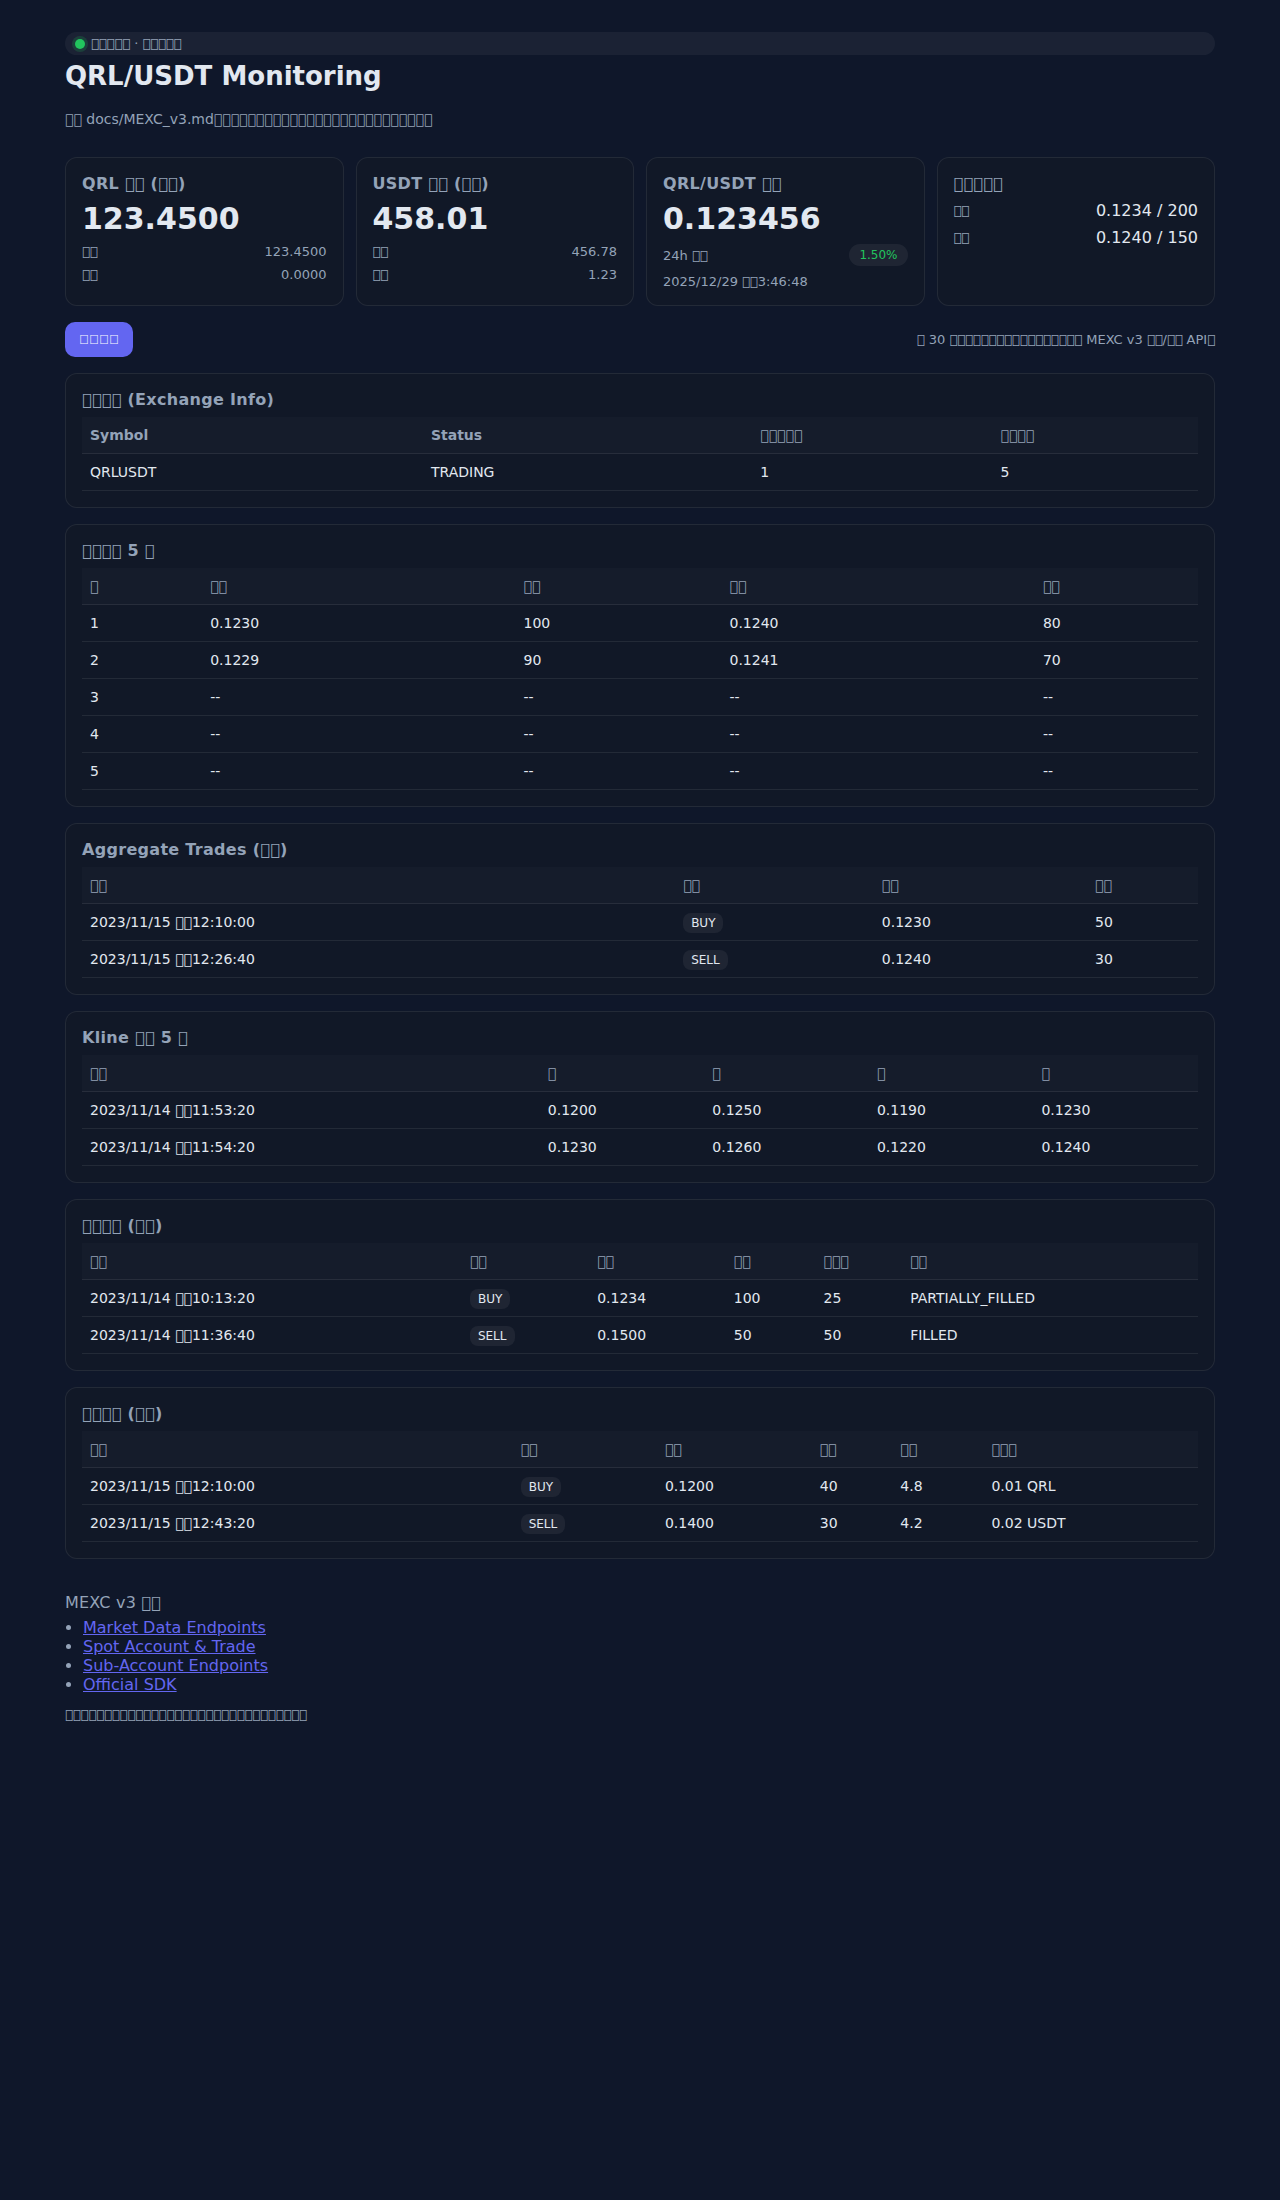
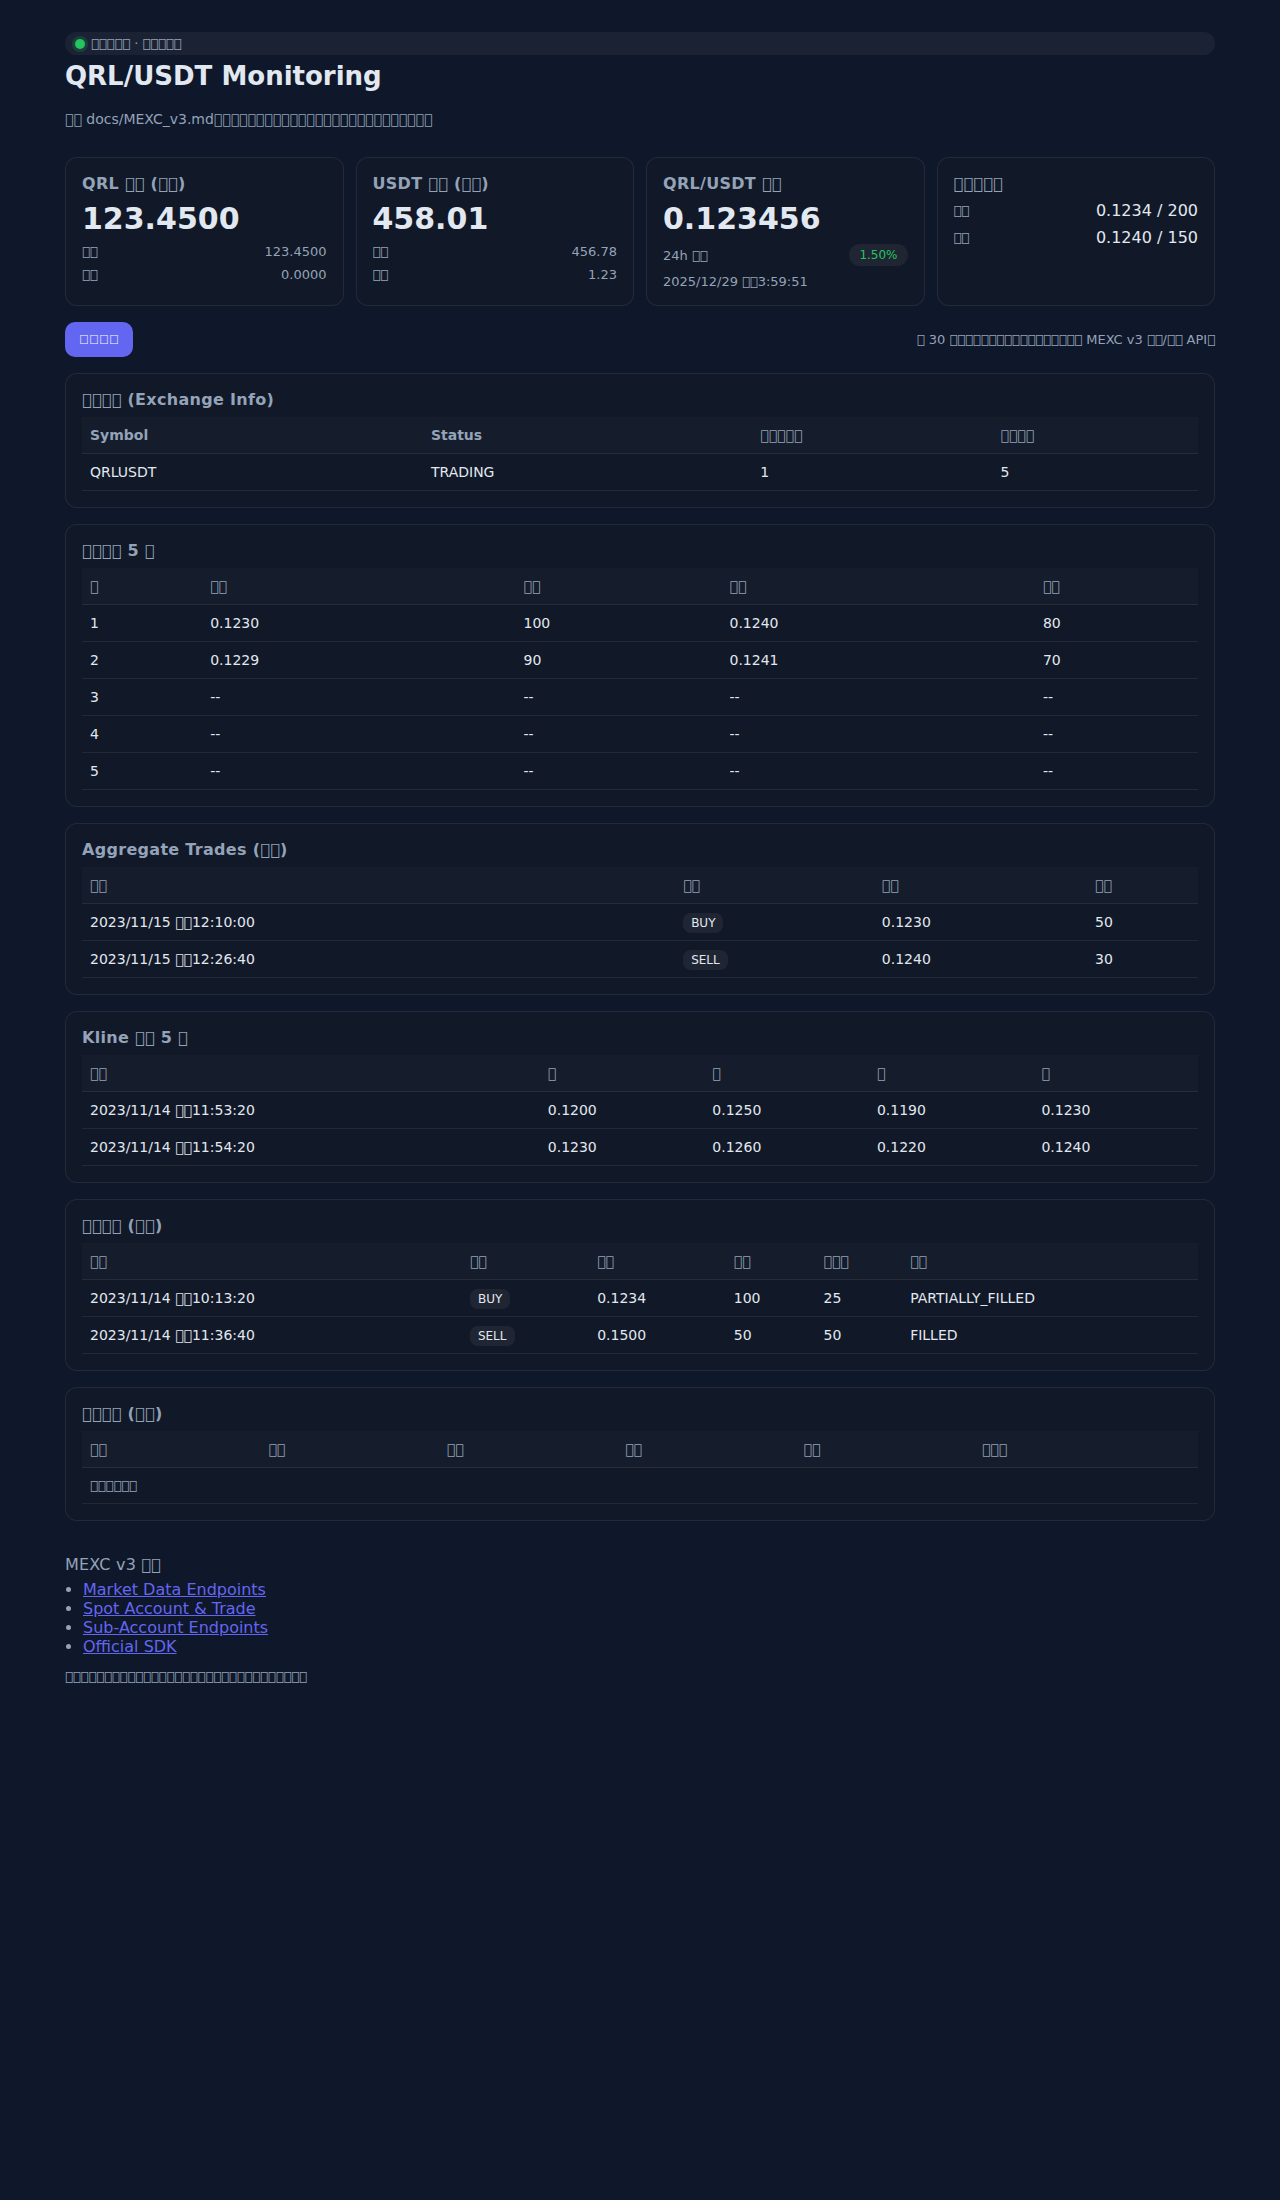
Gracefully handle kline and trades errors and refresh dashboard

diff --git a/templates/dashboard.html b/templates/dashboard.html
@@ -291,11 +291,15 @@
                 if (!res.ok) throw new Error(`HTTP ${res.status}`);
                 const data = await res.json();
                 const klines = data.data || [];
+                if (!klines.length) {
+                    body.innerHTML = '<tr><td colspan="5" class="hint">無K線資料</td></tr>';
+                    return;
+                }
                 body.innerHTML = klines.slice(-5).map(k => {
                     return `<tr><td>${formatTime(k[0])}</td><td>${k[1]}</td><td>${k[2]}</td><td>${k[3]}</td><td>${k[4]}</td></tr>`;
                 }).join('');
             } catch (err) {
-                body.innerHTML = '<tr><td colspan="5" class="error">Kline 載入失敗</td></tr>';
+                body.innerHTML = '<tr><td colspan="5" class="hint">無K線資料</td></tr>';
                 console.error('Klines failed', err);
             }
         }

diff --git a/api/account_routes.py b/api/account_routes.py
@@ -137,7 +137,13 @@ async def get_trades(symbol: str = "QRLUSDT", limit: int = 50):
     
     except Exception as e:
         logger.error(f"Failed to get trades for {symbol}: {e}")
-        raise HTTPException(status_code=500, detail=str(e))
+        # Graceful degradation for read-only dashboard
+        return {
+            "success": False,
+            "symbol": symbol,
+            "trades": [],
+            "error": str(e),
+        }
 
 
 @router.get("/sub-accounts")

diff --git a/api/market_routes.py b/api/market_routes.py
@@ -234,4 +234,11 @@ async def get_klines(
             }
     except Exception as e:
         logger.error(f"Failed to get klines for {symbol}: {e}")
-        raise HTTPException(status_code=500, detail=str(e))
+        return {
+            "success": False,
+            "symbol": symbol,
+            "interval": interval,
+            "data": [],
+            "error": str(e),
+            "timestamp": datetime.now().isoformat(),
+        }
